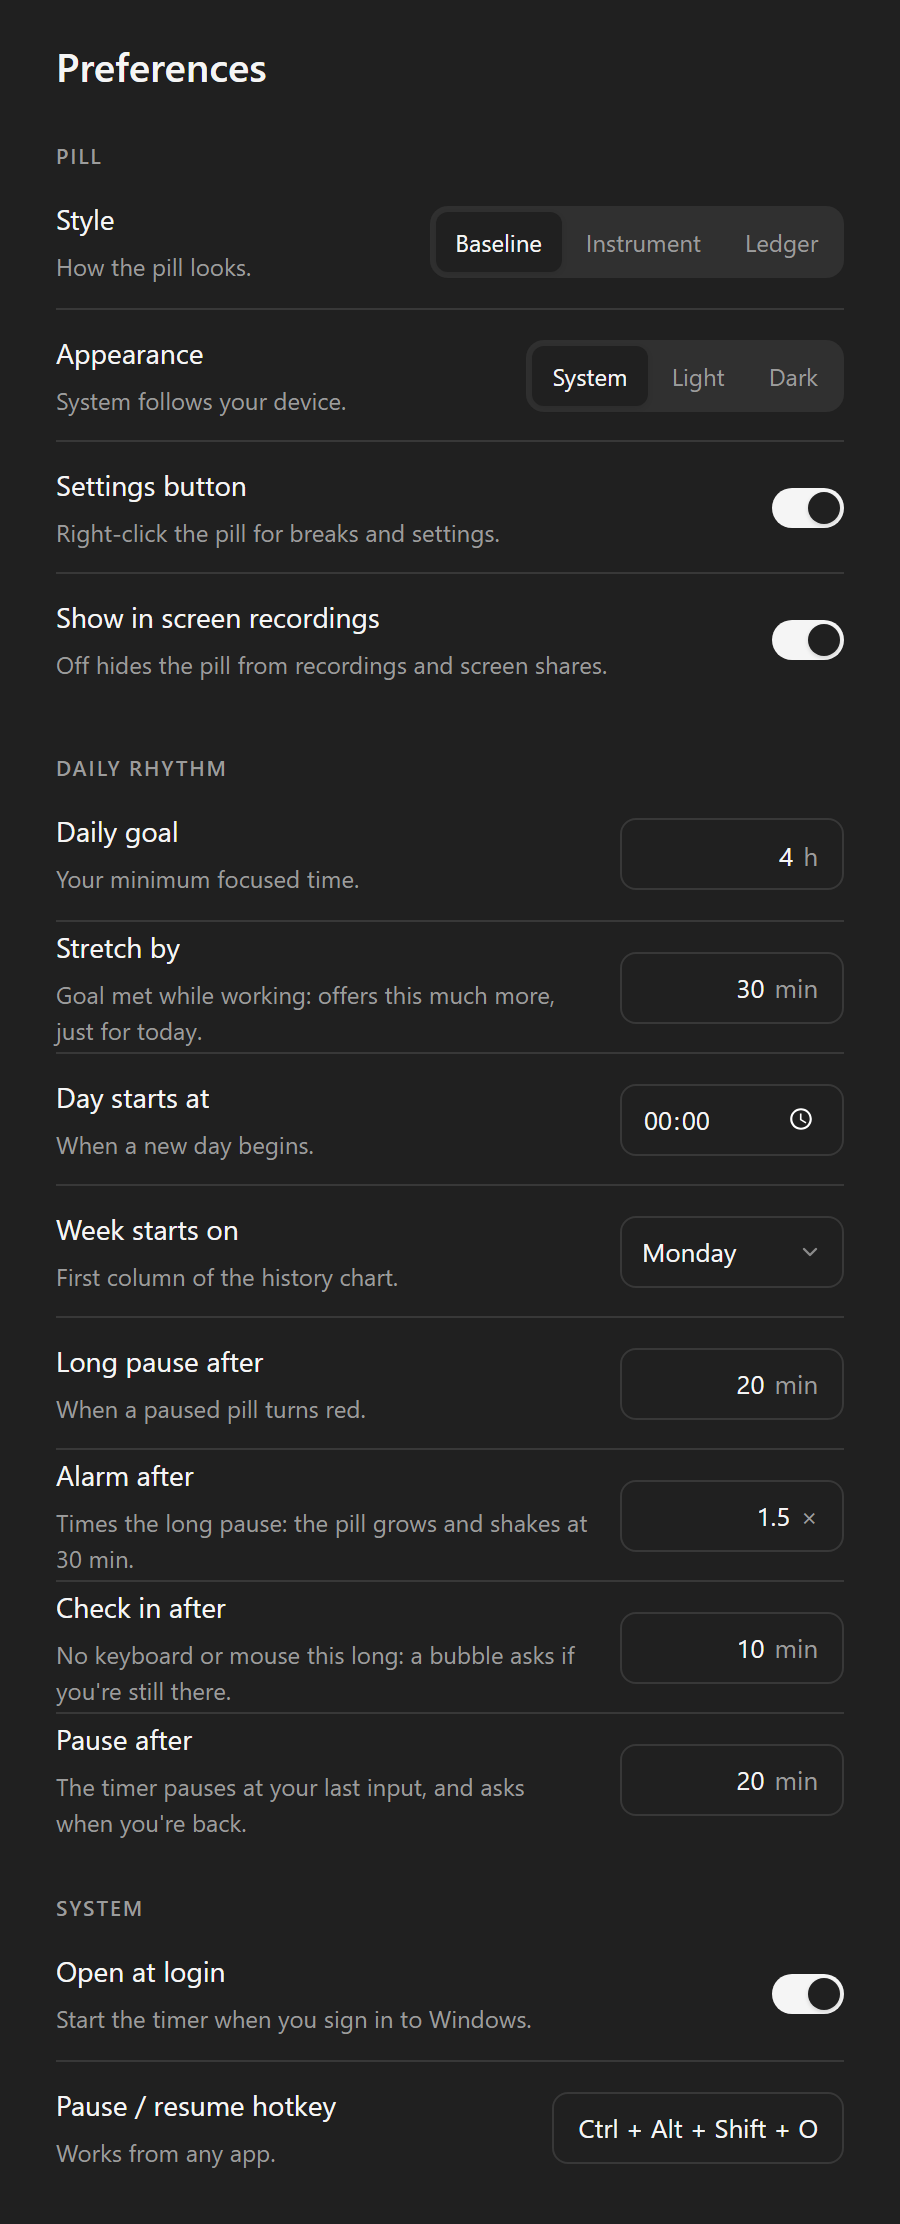
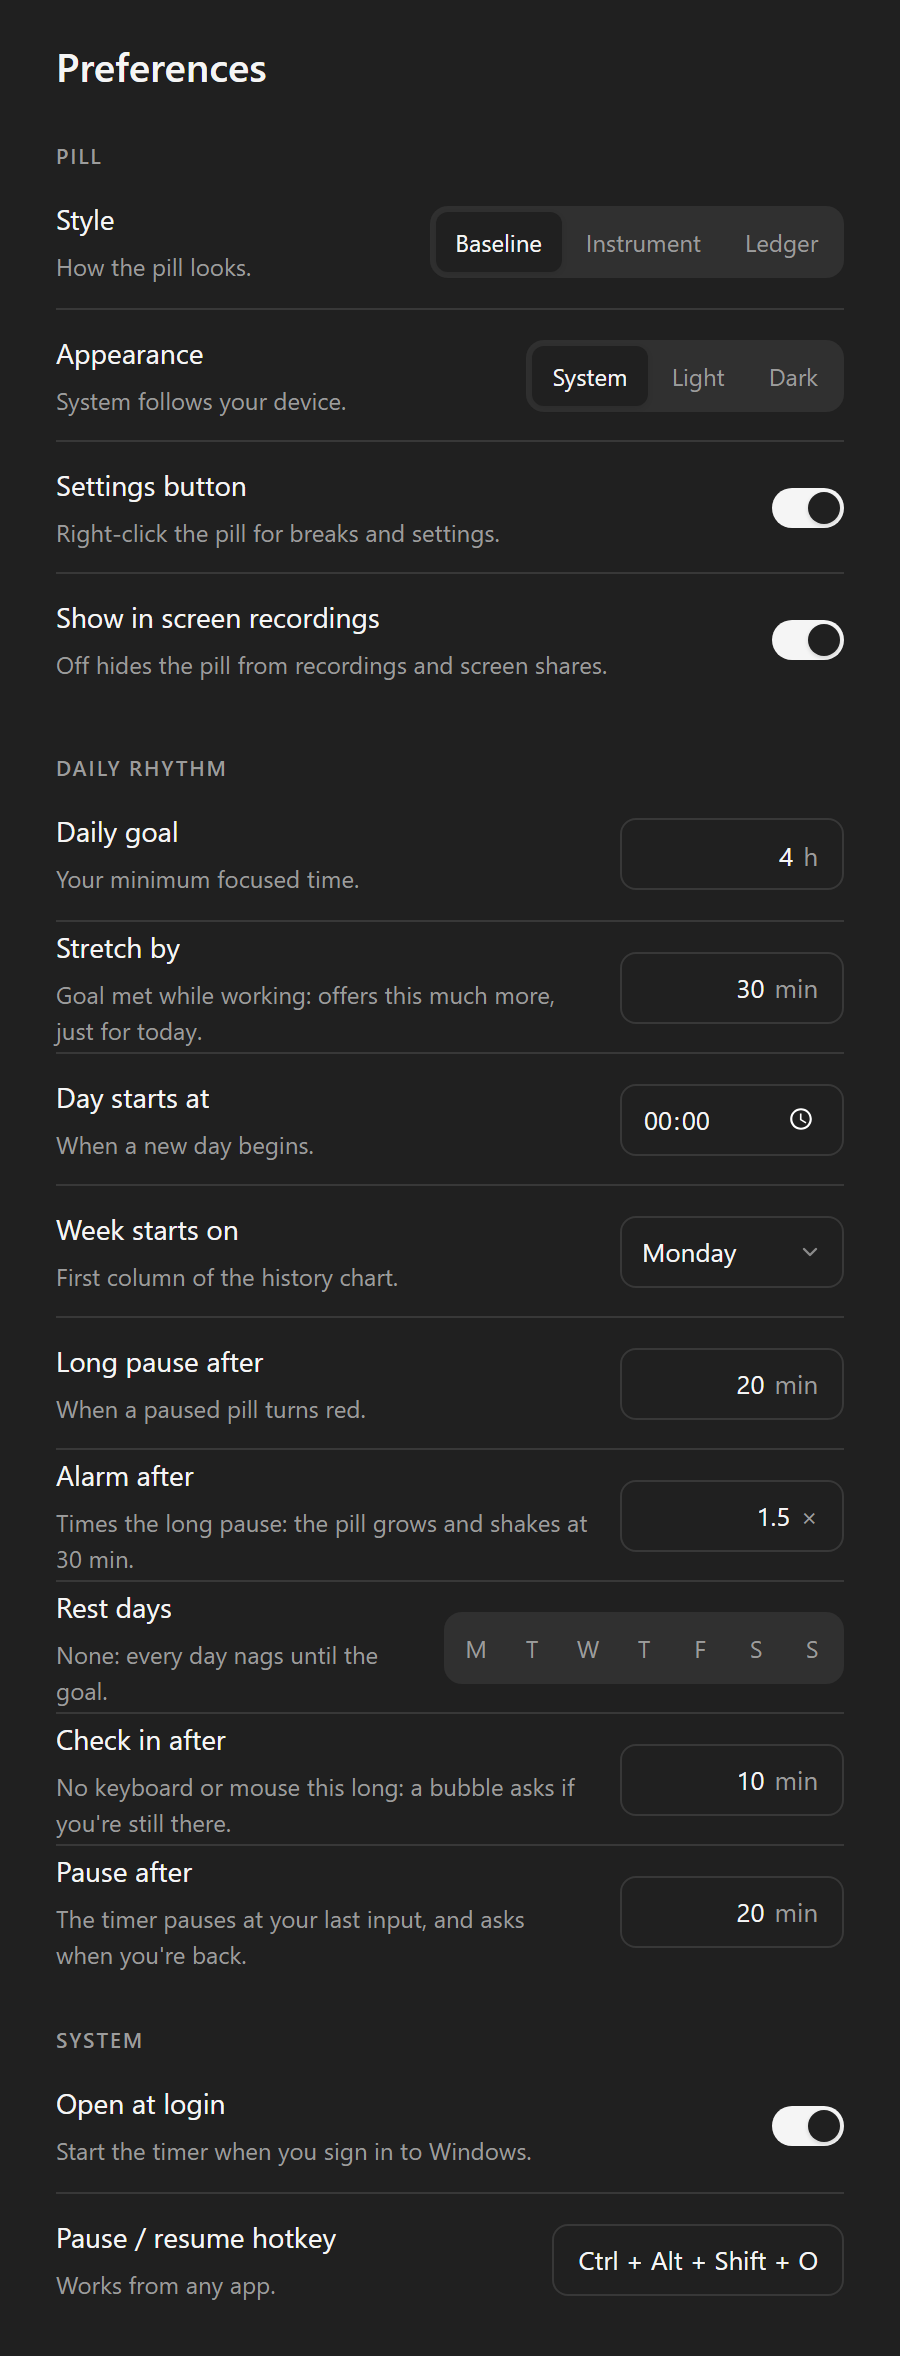
feat(website): grey pauses, snooze and done for today, rest days, unlock asks

diff --git a/website/src/sections/Nag.tsx b/website/src/sections/Nag.tsx
@@ -1,4 +1,4 @@
-import { useRef } from "react";
+import { useRef, useState } from "react";
 import { useInView } from "motion/react";
 import { DemoPill } from "../demo/DemoPill";
 import { HOUR, useDemoTimer, type DemoState } from "../demo/useDemoTimer";
@@ -9,8 +9,8 @@ const BREAKS = [10, 15, 30];
 
 // The app's pause stages, each held at a moment inside it (default settings: long pause 20 min, alarm at 1.5x).
 const STAGES: { when: string; title: string; body: string; state: DemoState }[] = [
-  { when: "0 – 5 min", title: "Short pause", body: "A red light, nothing more. Grab a coffee.", state: { elapsedMs: 2 * HOUR + 5 * MIN, running: false, pausedMs: 2 * MIN } },
-  { when: "5 min", title: "Nudge", body: "The light hops every 20 seconds, like a Dock icon asking for you.", state: { elapsedMs: 2 * HOUR + 5 * MIN, running: false, pausedMs: 8 * MIN } },
+  { when: "0 – 5 min", title: "Short pause", body: "The light and the number go grey. Nothing asked yet: grab a coffee.", state: { elapsedMs: 2 * HOUR + 5 * MIN, running: false, pausedMs: 2 * MIN } },
+  { when: "5 min", title: "Nudge", body: "The light turns red and hops every 20 seconds, like a Dock icon asking for you.", state: { elapsedMs: 2 * HOUR + 5 * MIN, running: false, pausedMs: 8 * MIN } },
   { when: "20 min", title: "Long pause", body: "It hops every 5 seconds, glowing, and the number turns red.", state: { elapsedMs: 2 * HOUR + 5 * MIN, running: false, pausedMs: 24 * MIN } },
   { when: "30 min", title: "Alarm", body: "The pill grows, shakes, and flashes its taskbar button until you come back.", state: { elapsedMs: 2 * HOUR + 5 * MIN, running: false, pausedMs: 45 * MIN } },
 ];
@@ -35,6 +35,11 @@ function BreakDemo() {
   const inView = useInView(ref);
   const { model, takeBreak, set } = useDemoTimer({ elapsedMs: 2 * HOUR + 5 * MIN, running: false, pausedMs: 8 * MIN }, { active: inView });
   const onBreak = model.pause === "break";
+  const [quiet, setQuiet] = useState<"" | "snooze" | "done">("");
+  const hush = (q: typeof quiet) => {
+    setQuiet(q);
+    set((s) => ({ ...s, quiet: !!q, running: q === "done" ? false : s.running }));
+  };
   return (
     <div ref={ref} className="break-demo">
       <div className="pill-menu" role="group" aria-label="The pill's right-click menu">
@@ -44,6 +49,15 @@ function BreakDemo() {
           BREAKS.map((min) => (
             <button type="button" key={min} onClick={() => takeBreak(min * MIN)}>Take a {min} min break</button>
           ))
+        )}
+        <hr />
+        {quiet ? (
+          <button type="button" onClick={() => hush("")}>{quiet === "done" ? "Done for today" : "Snoozed 30 min"}: remind me again</button>
+        ) : (
+          <>
+            <button type="button" onClick={() => hush("snooze")}>Snooze reminders 30 min</button>
+            <button type="button" onClick={() => hush("done")}>Done for today</button>
+          </>
         )}
         <hr />
         <span>Settings</span>
@@ -70,7 +84,8 @@ export function Nag() {
         </ol>
       </Reveal>
       <p className="nag-note">
-        Once today's goal is met, it stops asking. The alarm time is yours to set: 1.5 long pauses by default.
+        Once today's goal is met, it stops asking. It never sounds the alarm at an empty desk: locked or away, it
+        waits, and coming back starts the stages over. The alarm time is yours to set: 1.5 long pauses by default.
       </p>
 
       <div className="break-layout">
@@ -80,7 +95,11 @@ export function Nag() {
             Right-click the pill and take 10, 15 or 30 minutes. The clock turns blue and counts the break down, and
             nothing nags. Stay away past the end and it nudges you straight away. Breaks show up in your history.
           </p>
-          <p className="break-try">Try it: pick a break.</p>
+          <p>
+            Off for longer? Snooze the reminders for 30 minutes, or call it done for today: it pauses and goes quiet
+            until tomorrow. Days off can be rest days in Settings, and a missed one isn't held against your week.
+          </p>
+          <p className="break-try">Try it: pick a break, or snooze it.</p>
         </Reveal>
         <Reveal delay={0.1}>
           <BreakDemo />

diff --git a/website/src/demo/useDemoTimer.ts b/website/src/demo/useDemoTimer.ts
@@ -6,8 +6,8 @@ export const HOUR = 3_600_000;
 const MIN = 60_000;
 
 /** breakLeftMs > 0: on a planned break. afterBreak: the break ran out, so the pause nags from the nudge on.
- * extraMs: today's stretch past the goal (said yes to when the goal was met). */
-export type DemoState = { elapsedMs: number; running: boolean; pausedMs: number; breakLeftMs?: number; afterBreak?: boolean; extraMs?: number };
+ * extraMs: today's stretch past the goal (said yes to when the goal was met). quiet: snoozed or done for today, nothing nags. */
+export type DemoState = { elapsedMs: number; running: boolean; pausedMs: number; breakLeftMs?: number; afterBreak?: boolean; extraMs?: number; quiet?: boolean };
 
 type Options = {
   goalMs?: number;
@@ -45,7 +45,7 @@ export function useDemoTimer(initial: DemoState, { goalMs = 4 * HOUR, longPauseM
 
   const toggle = () => setState((s) => ({ ...s, running: !s.running, pausedMs: 0, breakLeftMs: 0, afterBreak: false }));
   const takeBreak = (ms: number) => setState((s) => ({ ...s, running: false, pausedMs: 0, breakLeftMs: ms, afterBreak: false }));
-  const { elapsedMs, running, pausedMs, breakLeftMs = 0, afterBreak = false, extraMs = 0 } = state;
+  const { elapsedMs, running, pausedMs, breakLeftMs = 0, afterBreak = false, extraMs = 0, quiet = false } = state;
   const done = elapsedMs >= goalMs;
   const targetMs = goalMs + extraMs;
   const onBreak = !running && breakLeftMs > 0;
@@ -59,7 +59,7 @@ export function useDemoTimer(initial: DemoState, { goalMs = 4 * HOUR, longPauseM
     pausedMs,
     breakLeftMs: onBreak ? Math.ceil(breakLeftMs / 1000) * 1000 : 0,
     pause: pauseLevel(
-      { running, done, pausedMs, onBreak, sinceBreakMs: afterBreak ? pausedMs : null },
+      { running, done: done || quiet, pausedMs, onBreak, sinceBreakMs: afterBreak ? pausedMs : null },
       { nudgeMs: 5 * MIN, longPauseMs, alarmFactor: 1.5 },
     ),
     ready: true,

diff --git a/website/src/sections/Settings.tsx b/website/src/sections/Settings.tsx
@@ -11,6 +11,7 @@ const ITEMS: [string, string][] = [
   ["Week starts on", "The first column of the history chart."],
   ["Long pause after", "How long a pause can run before the pill turns red and starts asking for you."],
   ["Alarm after", "When the pill grows, shakes and flashes in the taskbar: 1.5 long pauses unless you change it."],
+  ["Rest days", "Days with no reminders. Miss your goal on one and it isn't held against the week. None unless you pick some."],
   ["Check in after", "No keyboard or mouse this long while the timer runs: a bubble asks if you're still there. 10 min by default."],
   ["Pause after", "No input this long and the timer pauses at your last input, then asks when you're back. 20 min by default."],
   ["Open at login", "Start On Hours when you sign in to Windows."],
@@ -22,7 +23,7 @@ export function Settings() {
     <section className="section wrap" id="settings">
       <Reveal>
         <p className="eyebrow">Settings</p>
-        <h2 className="section-title">Fourteen switches. That's all of them.</h2>
+        <h2 className="section-title">Fifteen switches. That's all of them.</h2>
         <p className="section-lead">Right-click the pill and choose Settings, or click the tray icon by the clock.</p>
       </Reveal>
       <div className="settings-layout">
@@ -48,4 +49,4 @@ export function Settings() {
 }
 
 // Height of the screenshot at 450 wide; regenerate with `node scripts/shots/site.mjs`.
-const SHOT_HEIGHT = 1112;
+const SHOT_HEIGHT = 1178;

diff --git a/website/src/sections/Week.tsx b/website/src/sections/Week.tsx
@@ -31,7 +31,7 @@ const DAYS = Array.from({ length: 7 }, (_, i) => {
   const breaks = spans.length ? [{ start: spans[0].end, end: spans[0].end + 15 * MIN }] : [];
   const len = (xs: typeof spans) => xs.reduce((s, x) => s + x.end - x.start, 0);
   const extraMs = i === 2 ? 30 * MIN : 0; // Wednesday: goal met, then a 30 min stretch, made
-  return { date, from, spans, ms, future: i > TODAY, today: i === TODAY, on, breaks, onMs: len(on), breakMs: len(breaks), extraMs };
+  return { date, from, spans, ms, future: i > TODAY, today: i === TODAY, rest: false, on, breaks, onMs: len(on), breakMs: len(breaks), extraMs };
 });
 const TOTAL = DAYS.reduce((s, d) => s + d.ms, 0);
 const CLOSED = DAYS.slice(0, TODAY);

diff --git a/website/src/sections/Away.tsx b/website/src/sections/Away.tsx
@@ -65,7 +65,7 @@ export function Away() {
           {STEPS.map((s) => <Step key={s.title} {...s} />)}
         </ol>
       </Reveal>
-      <p className="nag-note">Both times are yours to set, or turn off. Locking the PC always pauses.</p>
+      <p className="nag-note">Both times are yours to set, or turn off. Locking the PC always pauses, and asks when you unlock.</p>
     </section>
   );
 }
